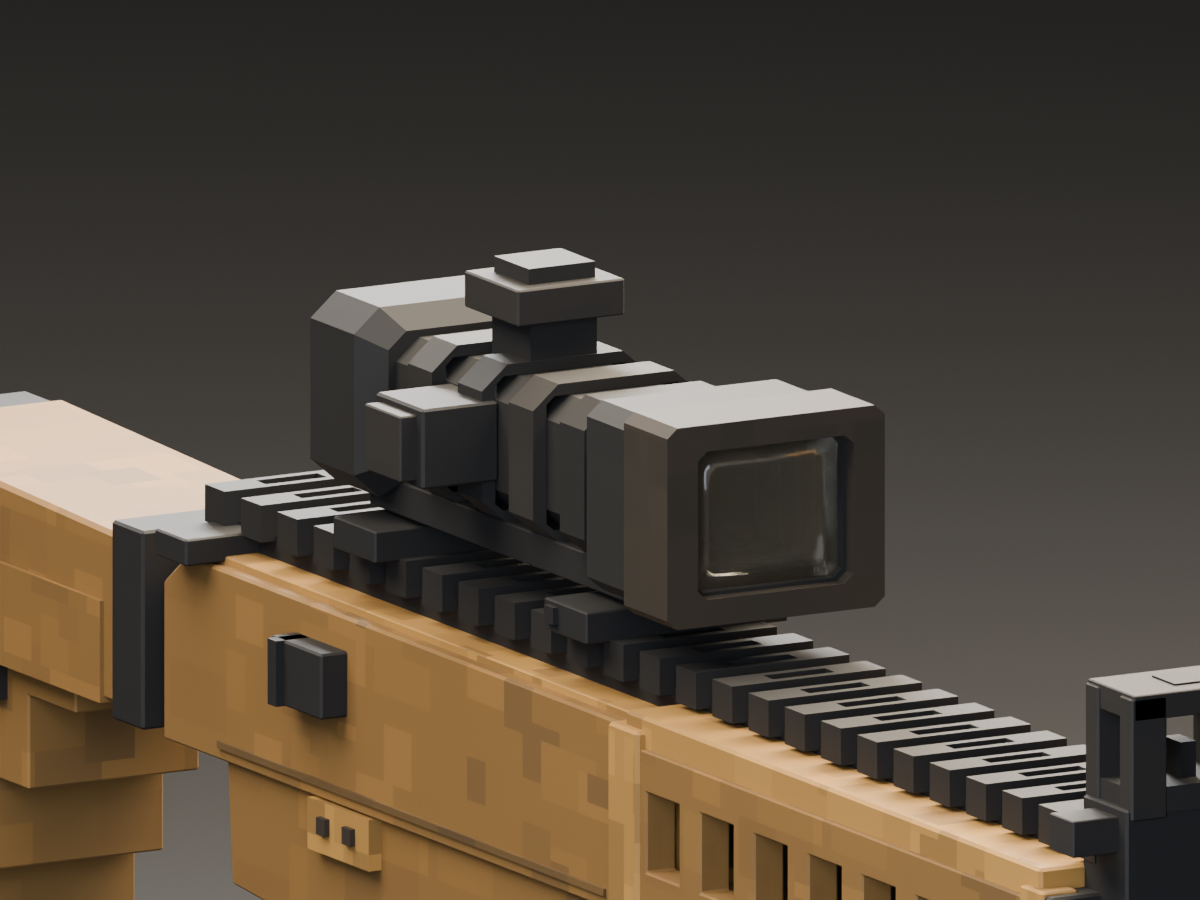
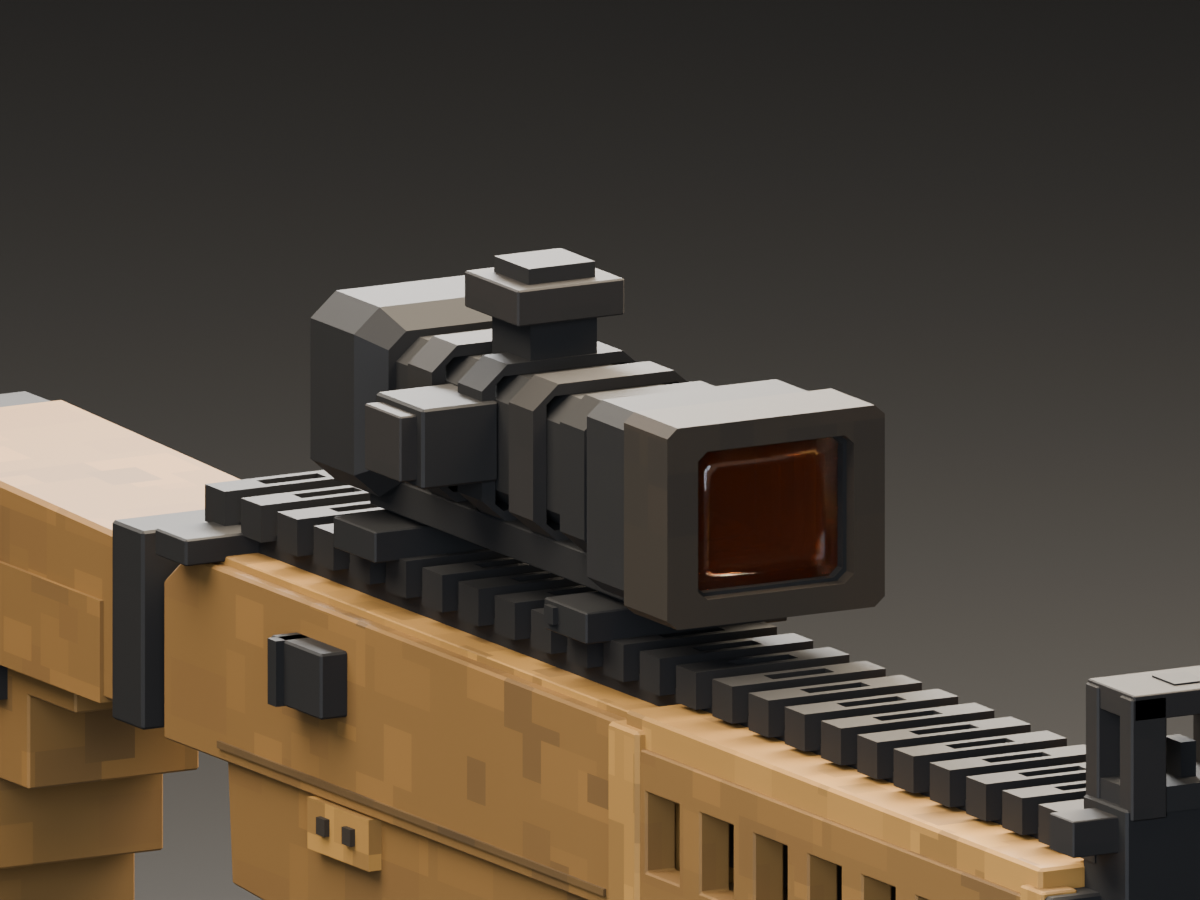
chore(project): refresh project: 4 project files
Modified: 4.
Text lines: +6 / -4; binary files: 1.
- Modify: "blender/weapons/rifle_sand_block_v1/review/detail_scope_front.png" (binary)
- Modify: "blender/weapons/showcase/README.md"
- Modify: "blender/weapons/showcase/Weapon_Showcase.blend"
- Modify: "blender/weapons/showcase/weapon_manifest.json"

Changed region(s): [[0.5858, 0.4667, 0.7092, 0.6533]]

diff --git a/blender/weapons/showcase/README.md b/blender/weapons/showcase/README.md
@@ -1,5 +1,7 @@
 # Permanent Weapon Showcase
 
+**2026-10-19 — Red-orange scope tint:** both V1 glass lenses now use the user's requested red-orange color. Transmission, reflectivity, hollow housing and all geometry are retained.
+
 **2026-10-19 — Sand Block scope glass:** the same Pending V1 now has an open metal optic tunnel, recessed front/rear lens seats and two separate transmitting biconvex glass lenses. GLB retains glass transmission and alpha blending. The detail pass and all prior weapons remain preserved; dimensions/markers are unchanged. Reopen an existing viewer window to load the updated saved model.
 
 **2026-10-19 — Sand Block V1 detail review:** the same Pending entry now includes chamfered taller vents, recessed rail teeth, front/side sight apertures, warm optic/muzzle trim, stock/grip/magazine seams and finer pixel clusters after a second comparison with the user reference. Its dimensions and markers are unchanged; previous V1 is backed up under `.validation/rifle_sand_block_detail_20261019/`.
